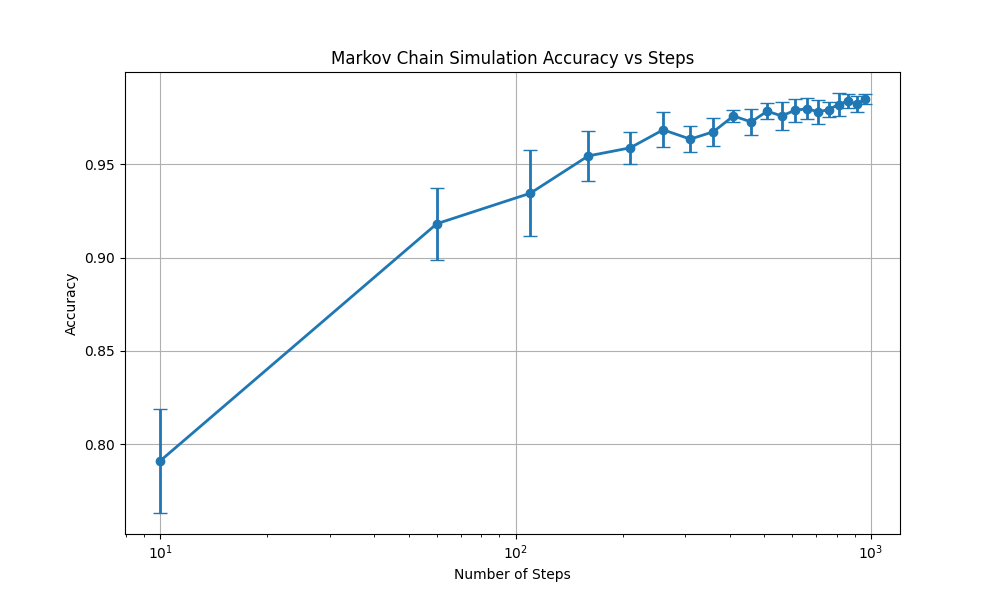
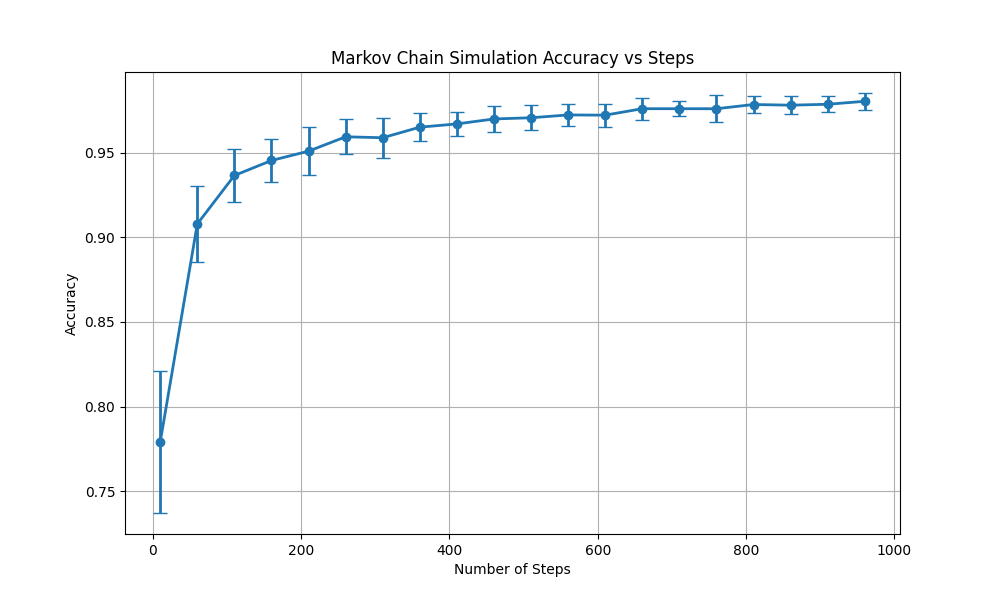
test classic detection

diff --git a/gen_waveform.py b/gen_waveform.py
@@ -1,15 +1,24 @@
 import numpy as np
 import matplotlib.pyplot as plt
-from scipy.signal import ShortTimeFFT
-from sfcw import generate_sfcw  # Assuming this is a custom function for generating SFCW signals
-from MarkovChain import *
-from scipy.signal.windows import gaussian
 
-fs = 10e6            # 10 MHz sampling rate
-# f_start = 1e6        # 1 MHz start frequency
-# f_step = 25e3        # 25 kHz frequency step
-# num_steps = 64       # 64 frequency tones
-# step_duration = 40e-6  # 40 µs per tone
+from scipy.signal import ShortTimeFFT
+from scipy.signal.windows import gaussian
+from scipy.signal import medfilt
+
+from sfcw import generate_sfcw
+from MarkovChain import *
+
+# ============================================================
+# PARAMETERS
+# ============================================================
+
+fs = 10e6          # Sampling rate (Hz)
+snr_db = -10        # SNR (dB)
+rng = np.random.default_rng(123)
+
+# ============================================================
+# MARKOV STATES (SFCW MODES)
+# ============================================================
 
 idle = State(
     "IDLE",
@@ -20,7 +29,7 @@ idle = State(
 )
 
 s1 = State(
-    "state 1",
+    "STATE_1",
     f_start=2e6,
     f_step=30e3,
     num_steps=80,
@@ -28,7 +37,7 @@ s1 = State(
 )
 
 s2 = State(
-    "state 2",
+    "STATE_2",
     f_start=3e6,
     f_step=35e3,
     num_steps=60,
@@ -36,7 +45,7 @@ s2 = State(
 )
 
 s3 = State(
-    "state 3",
+    "STATE_3",
     f_start=4e6,
     f_step=40e3,
     num_steps=112,
@@ -47,79 +56,157 @@ states = [idle, s1, s2, s3]
 
 P = [
     [0.8, 0.2, 0.0, 0.0],
-    [0.1, 0.7, 0.2, 0.0],
-    [0.0, 0.3, 0.7, 0.0],
-    [0.0, 0.0, 0.2, 0.8]
+    [0.5, 0.3, 0.2, 0.0],
+    [0.7, 0.1, 0.1, 0.1],
+    [0.6, 0.0, 0.2, 0.2]
 ]
 
 mc = MarkovChain(states, P)
+
+# ============================================================
+# GENERATE COMPOSITE SFCW SIGNAL
+# ============================================================
+
 total_sfcw = np.zeros(0, dtype=np.complex128)
 total_t = np.zeros(0)
+
 path = mc.simulate(start_state=idle, n_steps=50)
+
 for s in path:
-    print(s)
     f_start = s.get_var("f_start")
     f_step = s.get_var("f_step")
     num_steps = s.get_var("num_steps")
     step_duration = s.get_var("step_duration")
 
     t, sfcw, freqs = generate_sfcw(
-    f_start=f_start,
-    f_step=f_step,
-    num_steps=num_steps,
-    step_duration=step_duration,
-    fs=fs,
-    amplitude=1.0
+        f_start=f_start,
+        f_step=f_step,
+        num_steps=num_steps,
+        step_duration=step_duration,
+        fs=fs,
+        amplitude=1.0
     )
 
     total_sfcw = np.append(total_sfcw, sfcw)
     total_t = np.append(total_t, t)
 
+# ============================================================
+# ADD AWGN
+# ============================================================
 
-# Add white Gaussian noise to the generated SFCW signal
-snr_db = 80  # desired SNR in dB; lower -> noisier
-rng = np.random.default_rng(123)  # change or remove seed for non-deterministic noise
 sig_power = np.mean(np.abs(total_sfcw) ** 2)
-noise_power = sig_power / (10 ** (snr_db / 10.0))
-noise_std = np.sqrt(noise_power)
-# Use real-valued noise since spectrogram uses the real part later
-noise = noise_std * rng.standard_normal(size=total_sfcw.shape)
-total_sfcw = total_sfcw + noise
+noise_power = sig_power / (10 ** (snr_db / 10))
+noise = np.sqrt(noise_power) * rng.standard_normal(total_sfcw.shape)
+total_sfcw += noise
 
-# STFT parameters
-win_len = 1024
-hop = 512
-nfft = 1024
-w = gaussian(200, std=8, sym=True)  # symmetric Gaussian window
-# Create STFT object
+# ============================================================
+# STFT / SPECTROGRAM
+# ============================================================
+
+win = gaussian(200, std=8, sym=True)
 stft = ShortTimeFFT(
-    win=w,
-    hop=hop,
+    win=win,
+    hop=512,
     fs=fs,
     fft_mode="centered"
-    #mfft=nfft
 )
 
-# Compute STFT (complex)
-Sxx = stft.stft(total_sfcw)   # shape: (freq, time)
+Sxx = stft.stft(total_sfcw)
+Sxx_mag = np.abs(Sxx)
 
-# Time & frequency axes
-t_spec = stft.t(len(total_sfcw))   # seconds
-f = stft.f                          # Hz
+t_spec = stft.t(len(total_sfcw))
+f = stft.f
 
-# Plot
-plt.figure(figsize=(10, 5))
+# ============================================================
+# RIDGE EXTRACTION (DOMINANT FREQUENCY VS TIME)
+# ============================================================
+
+ridge_idx = np.argmax(Sxx_mag, axis=0)
+ridge_freq = f[ridge_idx]          # Hz
+ridge_freq_s = medfilt(ridge_freq, kernel_size=9)
+
+# ============================================================
+# SEGMENTATION BASED ON FREQUENCY JUMPS
+# ============================================================
+
+df = np.abs(np.diff(ridge_freq_s))
+
+# Robust adaptive threshold
+df_thresh = 5 * np.median(df)
+
+change_points = np.where(df > df_thresh)[0]
+
+segments = np.split(np.arange(len(ridge_freq_s)), change_points + 1)
+
+# ============================================================
+# PARAMETER ESTIMATION PER SEGMENT
+# ============================================================
+
+results = []
+
+for seg in segments:
+    if len(seg) < 10:
+        continue
+
+    t_start = t_spec[seg[0]]
+    t_end = t_spec[seg[-1]]
+    duration = t_end - t_start
+
+    freqs_seg = ridge_freq_s[seg]
+    bandwidth = freqs_seg.max() - freqs_seg.min()
+
+    results.append({
+        "start_ms": t_start * 1e3,
+        "duration_ms": duration * 1e3,
+        "bandwidth_MHz": bandwidth / 1e6
+    })
+
+# ============================================================
+# PRINT RESULTS
+# ============================================================
+
+print("\nDetected SFCW segments:\n")
+print(results
+)
+for i, r in enumerate(results, 1):
+    print(
+        f"Segment {i:02d} | "
+        f"Start: {r['start_ms']:8.2f} ms | "
+        f"Duration: {r['duration_ms']:7.2f} ms | "
+        f"Bandwidth: {r['bandwidth_MHz']:7.2f} MHz"
+    )
+
+# ============================================================
+# PLOTS
+# ============================================================
+
+# --- Spectrogram ---
+plt.figure(figsize=(11, 5))
 plt.imshow(
-    20 * np.log10(np.abs(Sxx) + 1e-12),
-    aspect='auto',
-    origin='lower',
-    #extent=[t_spec[0]*1e3, t_spec[-1]*1e3, f[0]*1e-6, f[-1]*1e-6],
-    cmap='viridis'
+    20 * np.log10(Sxx_mag + 1e-12),
+    aspect="auto",
+    origin="lower",
+    extent=[t_spec[0]*1e3, t_spec[-1]*1e3, f[0]*1e-6, f[-1]*1e-6],
+    cmap="viridis"
 )
+plt.plot(t_spec * 1e3, ridge_freq_s / 1e6, "r", linewidth=2)
+plt.xlabel("Time (ms)")
+plt.ylabel("Frequency (MHz)")
+plt.title("SFCW Spectrogram with Ridge Tracking")
+plt.colorbar(label="Magnitude (dB)")
+plt.tight_layout()
+plt.show()
+
+# --- Ridge + segmentation ---
+plt.figure(figsize=(11, 4))
+plt.plot(t_spec * 1e3, ridge_freq_s / 1e6, linewidth=2)
+
+for r in results:
+    plt.axvline(r["start_ms"], color="r", linestyle="--")
 
 plt.xlabel("Time (ms)")
 plt.ylabel("Frequency (MHz)")
-plt.title("SFCW Spectrogram")
-plt.colorbar(label="Magnitude (dB)")
+plt.title("Ridge-Based SFCW Segmentation")
+plt.grid()
 plt.tight_layout()
 plt.show()

diff --git a/predict.py b/predict.py
@@ -37,14 +37,7 @@ s4 = State(
 )
 states = [idle, s1, s2, s3]
 
-P = [
-    [0.8, 0.1, 0.05, 0.05],   
-    [0.1, 0.6, 0.15, 0.15],  
-    [0.0, 0.3, 0.5, 0.2],
-    [0.0, 0.2, 0.2, 0.6]
-]
 
-mc = MarkovChain(states, P)
 
 import matplotlib.pyplot as plt
 
@@ -56,7 +49,14 @@ accuracies_std = []
 for n_steps in step_counts:
     accuracies_runs = []
     
-    for run in range(10):
+    for run in range(50):
+        P = [[np.random.random() for _ in range(len(states))] for _ in range(len(states))]
+        # Normalize rows to sum to 1
+        for i in range(len(states)):
+            row_sum = sum(P[i])
+            P[i] = [x / row_sum for x in P[i]]
+
+        mc = MarkovChain(states, P)
         path = mc.simulate(start_state=idle, n_steps=n_steps)
         transition_count = {}
         
@@ -95,5 +95,5 @@ plt.xlabel('Number of Steps')
 plt.ylabel('Accuracy')
 plt.title('Markov Chain Simulation Accuracy vs Steps')
 plt.grid(True)
-plt.xscale('log')
+#plt.xscale('log')
 plt.show()
